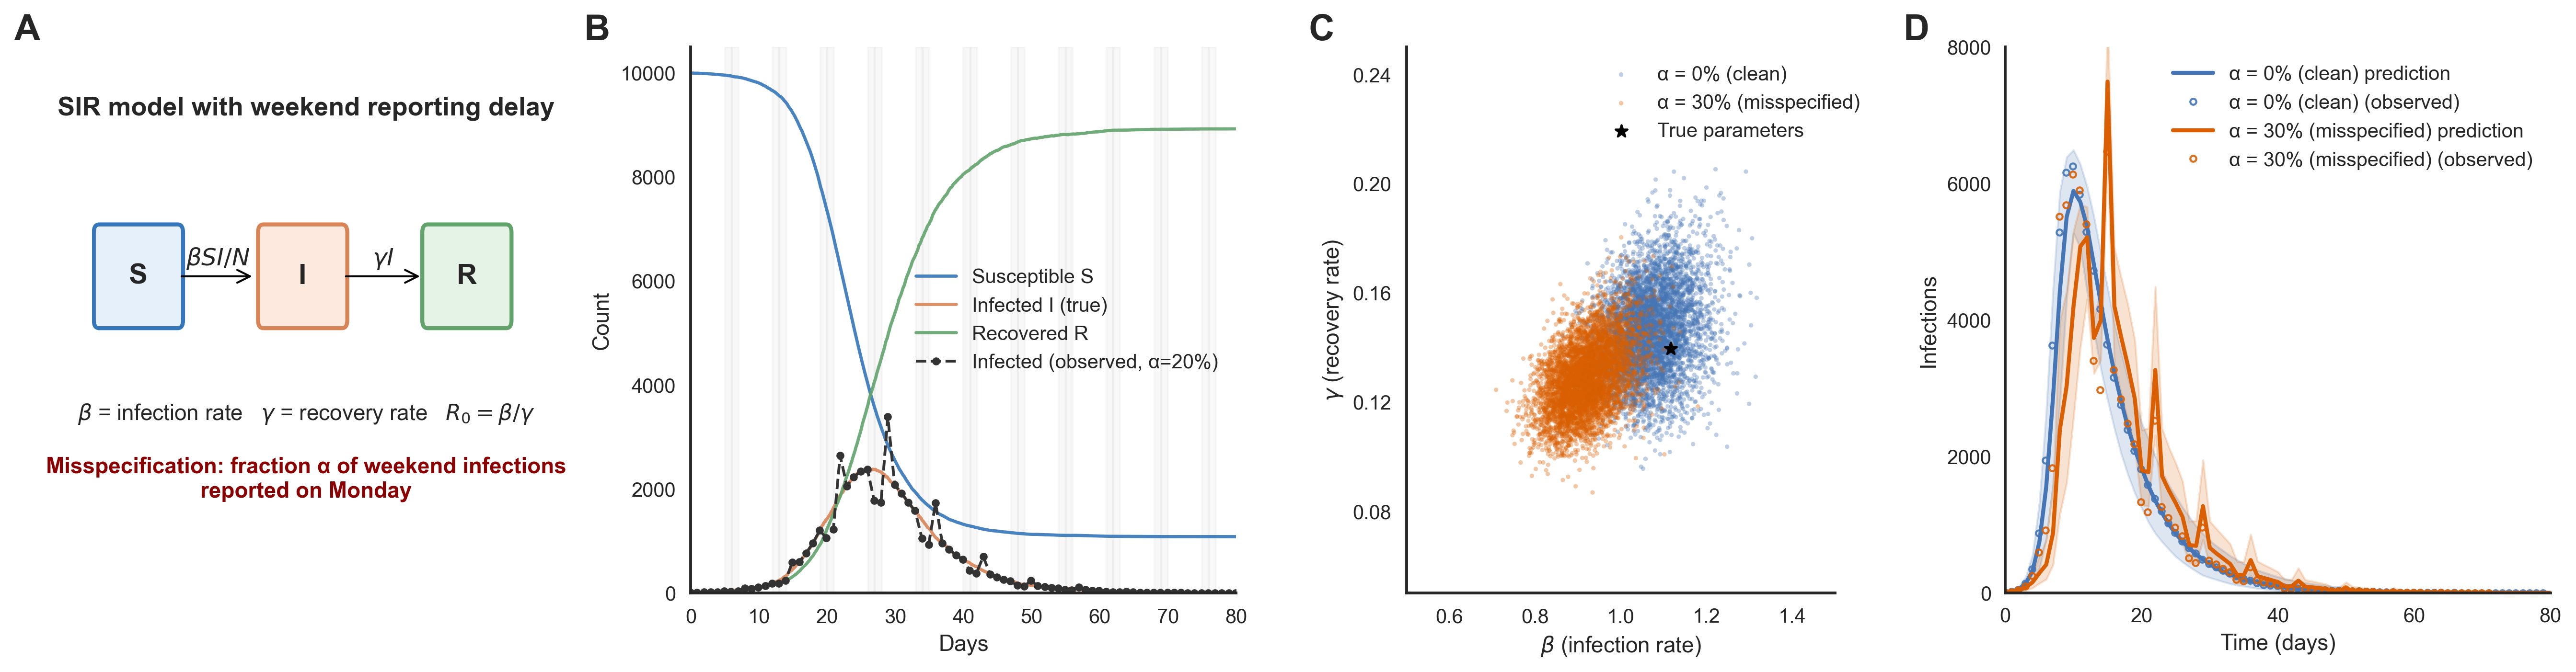
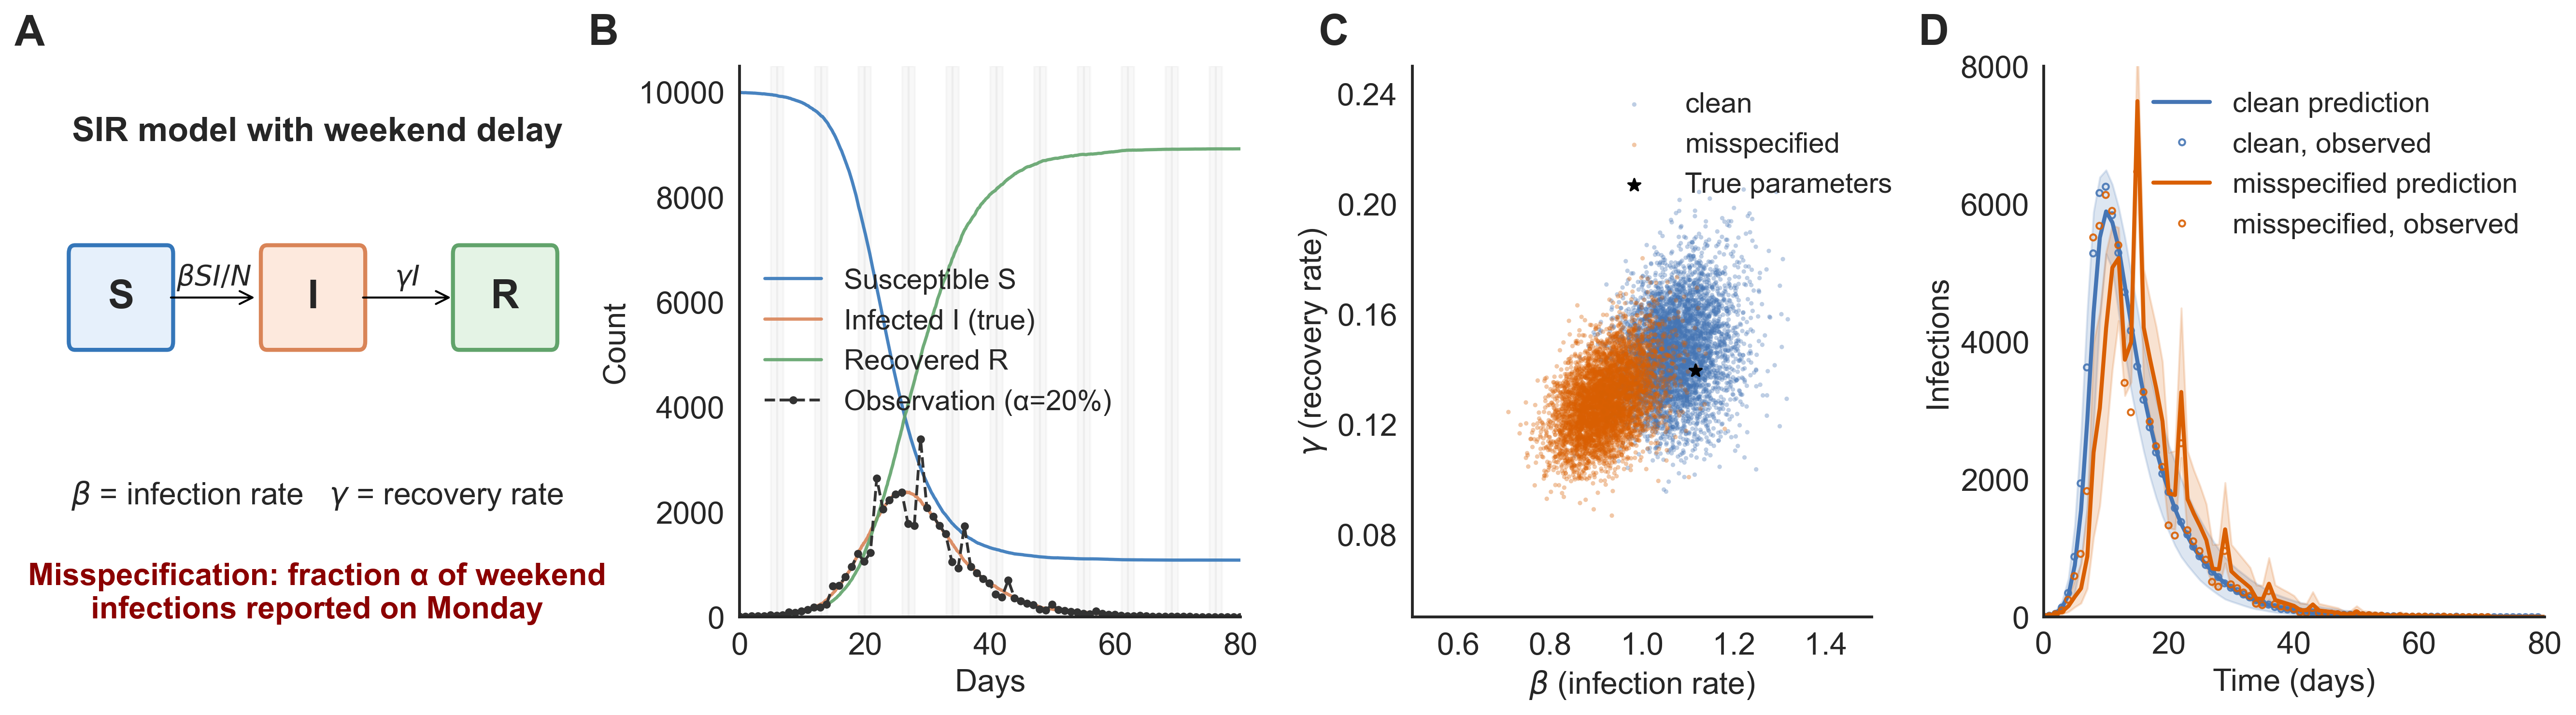
improve figure and caption

diff --git a/_posts/2026-04-27-model-misspecification-in-sbi.md b/_posts/2026-04-27-model-misspecification-in-sbi.md
@@ -99,8 +99,8 @@ characteristic weekly oscillations (Figure 1).
   <strong>Figure 1:</strong> SIR model with weekend reporting delay.
   <strong>A</strong>: Schematic SIR model and misspecification: a fraction α of weekend infections is reported on Monday.
   <strong>B</strong>: Example epidemic trajectory showing true S, I, R curves and observed infections with a weekend delay.
-  <strong>C</strong>: SBI posterior samples for $(\beta, \gamma)$ for clean data (α = 0%, blue) and misspecified data (α=30%, orange), with true parameters marked.
-  <strong>D</strong>: Posterior predictive checks for both cases, illustrating how misspecification shifts and distorts the inferred dynamics. Results generated using the `sbi` package and specificatins from Cannon et al..
+  <strong>C</strong>: SBI posterior samples for $(\beta, \gamma)$ for clean data (α = 0%, blue) and misspecified data (α=20%, orange), with true parameters marked.
+  <strong>D</strong>: Posterior predictive checks for both cases, illustrating how misspecification shifts and distorts the inferred dynamics. Results generated using the [sbi](https://sbi.readthedocs.io/en/latest/)<d-cite key="boelts_sbi_2025"></d-cite> package and specificatins from Cannon et al..
 </div>
 
 To infer infection parameters from observed data, a common SBI approach would be using